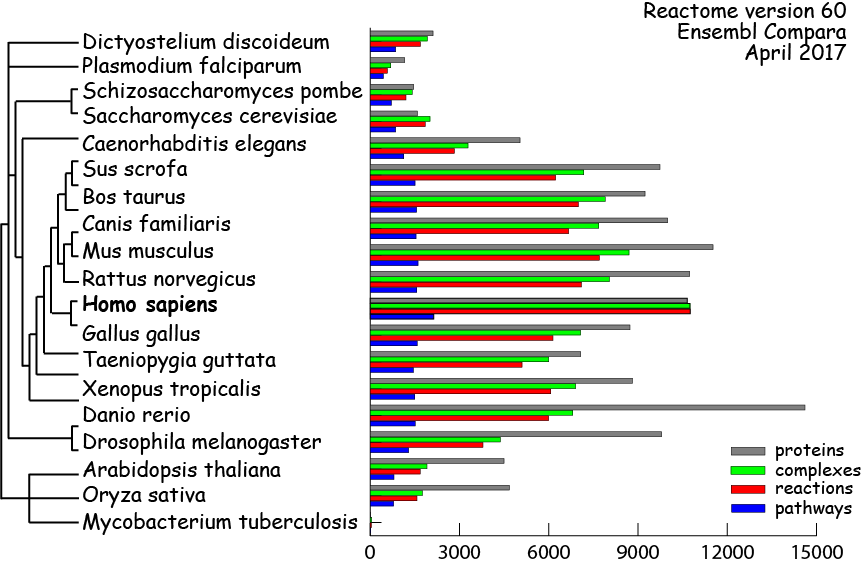
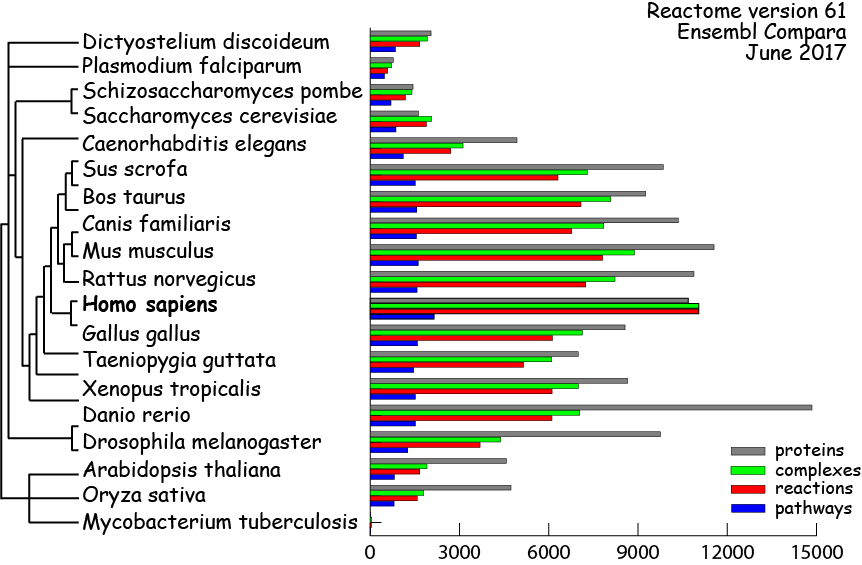
version 61

diff --git a/scripts/release/website_files_update/stats.html b/scripts/release/website_files_update/stats.html
@@ -7,7 +7,7 @@
 
     <body>
 	<!--#include virtual="/cgi-bin/navigation_bar" -->
-	<h1 class="frontpage">Reactome Statistics (Version 60)</h1>
+	<h1 class="frontpage">Reactome Statistics (Version 61)</h1>
 	    
 	<!-- Start of the stats table  -->
 	<table border="0" width="90%" cellpadding="0" cellspacing="0" class="classbrowser">
@@ -23,146 +23,146 @@
 		    
 		    <tr height="18" class="own">
 			<td height="25" class="own">D. discoideum</td>
-			<td class="own" align="center">2112</td>
-			<td class="own" align="center">1918</td>
-			<td class="own" align="center">1686</td>
-			<td class="own" align="center">858</td>
+			<td class="own" align="center">2046</td>
+			<td class="own" align="center">1919</td>
+			<td class="own" align="center">1668</td>
+			<td class="own" align="center">844</td>
 		    </tr>
 		    
 		    <tr height="18" class="own">
 			<td height="25" class="own">P. falciparum</td>
-			<td class="own" align="center">1161</td>
-			<td class="own" align="center">691</td>
-			<td class="own" align="center">577</td>
-			<td class="own" align="center">439</td>
+			<td class="own" align="center">775</td>
+			<td class="own" align="center">719</td>
+			<td class="own" align="center">587</td>
+			<td class="own" align="center">480</td>
 		    </tr>
 		    
 		    <tr height="18" class="own">
 			<td height="25" class="own">S. pombe</td>
-			<td class="own" align="center">1463</td>
-			<td class="own" align="center">1412</td>
-			<td class="own" align="center">1200</td>
-			<td class="own" align="center">712</td>
+			<td class="own" align="center">1439</td>
+			<td class="own" align="center">1403</td>
+			<td class="own" align="center">1180</td>
+			<td class="own" align="center">695</td>
 		    </tr>
 		    
 		    <tr height="18" class="own">
 			<td height="25" class="own">S. cerevisiae</td>
-			<td class="own" align="center">1585</td>
-			<td class="own" align="center">2010</td>
-			<td class="own" align="center">1847</td>
-			<td class="own" align="center">857</td>
+			<td class="own" align="center">1618</td>
+			<td class="own" align="center">2066</td>
+			<td class="own" align="center">1884</td>
+			<td class="own" align="center">866</td>
 		    </tr>
 		    
 		    <tr height="18" class="own">
 			<td height="25" class="own">C. elegans</td>
-			<td class="own" align="center">5034</td>
-			<td class="own" align="center">3289</td>
-			<td class="own" align="center">2828</td>
-			<td class="own" align="center">1130</td>
+			<td class="own" align="center">4929</td>
+			<td class="own" align="center">3119</td>
+			<td class="own" align="center">2709</td>
+			<td class="own" align="center">1110</td>
 		    </tr>
 		    
 		    <tr height="18" class="own">
 			<td height="25" class="own">S. scrofa</td>
-			<td class="own" align="center">9734</td>
-			<td class="own" align="center">7179</td>
-			<td class="own" align="center">6230</td>
-			<td class="own" align="center">1507</td>
-		    </tr>
-		    
-		    <tr height="18" class="own">
-			<td height="25" class="own">B. taurus</td>
-			<td class="own" align="center">9236</td>
-			<td class="own" align="center">7895</td>
-			<td class="own" align="center">6992</td>
-			<td class="own" align="center">1559</td>
-		    </tr>
-		    
-		    <tr height="18" class="own">
-			<td height="25" class="own">C. familiaris</td>
-			<td class="own" align="center">9993</td>
-			<td class="own" align="center">7683</td>
-			<td class="own" align="center">6669</td>
-			<td class="own" align="center">1541</td>
-		    </tr>
-		    
-		    <tr height="18" class="own">
-			<td height="25" class="own">M. musculus</td>
-			<td class="own" align="center">11521</td>
-			<td class="own" align="center">8699</td>
-			<td class="own" align="center">7697</td>
-			<td class="own" align="center">1608</td>
-		    </tr>
-		    
-		    <tr height="18" class="own">
-			<td height="25" class="own">R. norvegicus</td>
-			<td class="own" align="center">10735</td>
-			<td class="own" align="center">8038</td>
-			<td class="own" align="center">7099</td>
-			<td class="own" align="center">1565</td>
-		    </tr>
-		    
-		    <tr height="18" class="own">
-			<td height="25" class="own">*H. sapiens</td>
-			<td class="own" align="center">10651</td>
-			<td class="own" align="center">10748</td>
-			<td class="own" align="center">10754</td>
-			<td class="own" align="center">2132</td>
-		    </tr>
-		    
-		    <tr height="18" class="own">
-			<td height="25" class="own">G. gallus</td>
-			<td class="own" align="center">8726</td>
-			<td class="own" align="center">7068</td>
-			<td class="own" align="center">6142</td>
-			<td class="own" align="center">1578</td>
-		    </tr>
-		    
-		    <tr height="18" class="own">
-			<td height="25" class="own">T. guttata</td>
-			<td class="own" align="center">7075</td>
-			<td class="own" align="center">5999</td>
-			<td class="own" align="center">5105</td>
-			<td class="own" align="center">1454</td>
-		    </tr>
-		    
-		    <tr height="18" class="own">
-			<td height="25" class="own">X. tropicalis</td>
-			<td class="own" align="center">8811</td>
-			<td class="own" align="center">6905</td>
-			<td class="own" align="center">6069</td>
-			<td class="own" align="center">1498</td>
-		    </tr>
-		    
-		    <tr height="18" class="own">
-			<td height="25" class="own">D. rerio</td>
-			<td class="own" align="center">14607</td>
-			<td class="own" align="center">6810</td>
-			<td class="own" align="center">5995</td>
+			<td class="own" align="center">9847</td>
+			<td class="own" align="center">7296</td>
+			<td class="own" align="center">6310</td>
 			<td class="own" align="center">1511</td>
 		    </tr>
 		    
 		    <tr height="18" class="own">
+			<td height="25" class="own">B. taurus</td>
+			<td class="own" align="center">9257</td>
+			<td class="own" align="center">8087</td>
+			<td class="own" align="center">7082</td>
+			<td class="own" align="center">1568</td>
+		    </tr>
+		    
+		    <tr height="18" class="own">
+			<td height="25" class="own">C. familiaris</td>
+			<td class="own" align="center">10350</td>
+			<td class="own" align="center">7848</td>
+			<td class="own" align="center">6771</td>
+			<td class="own" align="center">1551</td>
+		    </tr>
+		    
+		    <tr height="18" class="own">
+			<td height="25" class="own">M. musculus</td>
+			<td class="own" align="center">11553</td>
+			<td class="own" align="center">8877</td>
+			<td class="own" align="center">7809</td>
+			<td class="own" align="center">1613</td>
+		    </tr>
+		    
+		    <tr height="18" class="own">
+			<td height="25" class="own">R. norvegicus</td>
+			<td class="own" align="center">10878</td>
+			<td class="own" align="center">8224</td>
+			<td class="own" align="center">7246</td>
+			<td class="own" align="center">1574</td>
+		    </tr>
+		    
+		    <tr height="18" class="own">
+			<td height="25" class="own">*H. sapiens</td>
+			<td class="own" align="center">10684</td>
+			<td class="own" align="center">11041</td>
+			<td class="own" align="center">11042</td>
+			<td class="own" align="center">2148</td>
+		    </tr>
+		    
+		    <tr height="18" class="own">
+			<td height="25" class="own">G. gallus</td>
+			<td class="own" align="center">8565</td>
+			<td class="own" align="center">7129</td>
+			<td class="own" align="center">6125</td>
+			<td class="own" align="center">1588</td>
+		    </tr>
+		    
+		    <tr height="18" class="own">
+			<td height="25" class="own">T. guttata</td>
+			<td class="own" align="center">6991</td>
+			<td class="own" align="center">6098</td>
+			<td class="own" align="center">5153</td>
+			<td class="own" align="center">1462</td>
+		    </tr>
+		    
+		    <tr height="18" class="own">
+			<td height="25" class="own">X. tropicalis</td>
+			<td class="own" align="center">8647</td>
+			<td class="own" align="center">6994</td>
+			<td class="own" align="center">6112</td>
+			<td class="own" align="center">1516</td>
+		    </tr>
+		    
+		    <tr height="18" class="own">
+			<td height="25" class="own">D. rerio</td>
+			<td class="own" align="center">14845</td>
+			<td class="own" align="center">7042</td>
+			<td class="own" align="center">6105</td>
+			<td class="own" align="center">1517</td>
+		    </tr>
+		    
+		    <tr height="18" class="own">
 			<td height="25" class="own">D. melanogaster</td>
-			<td class="own" align="center">9789</td>
-			<td class="own" align="center">4373</td>
-			<td class="own" align="center">3787</td>
-			<td class="own" align="center">1290</td>
+			<td class="own" align="center">9747</td>
+			<td class="own" align="center">4381</td>
+			<td class="own" align="center">3692</td>
+			<td class="own" align="center">1262</td>
 		    </tr>
 		    
 		    <tr height="18" class="own">
 			<td height="25" class="own">A. thaliana</td>
-			<td class="own" align="center">4497</td>
-			<td class="own" align="center">1906</td>
-			<td class="own" align="center">1678</td>
-			<td class="own" align="center">797</td>
+			<td class="own" align="center">4573</td>
+			<td class="own" align="center">1905</td>
+			<td class="own" align="center">1667</td>
+			<td class="own" align="center">809</td>
 		    </tr>
 		    
 		    <tr height="18" class="own">
 			<td height="25" class="own">O. sativa</td>
-			<td class="own" align="center">4674</td>
-			<td class="own" align="center">1754</td>
-			<td class="own" align="center">1569</td>
-			<td class="own" align="center">785</td>
+			<td class="own" align="center">4731</td>
+			<td class="own" align="center">1799</td>
+			<td class="own" align="center">1577</td>
+			<td class="own" align="center">802</td>
 		    </tr>
 		    
 		    <tr height="18" class="own">
@@ -182,7 +182,7 @@
 
 	<div style="font-size:9pt;text-align:left;color:black;padding-top:10px;width=40%">
 	    *Reactome annotates to protein isoforms when this information is available.<br />
-	    The total number of curated human proteins including isoforms is 10811
+	    The total number of curated human proteins including isoforms is 10846
 	</div>
 
 	<!--#include virtual="/cgi-bin/footer" -->
